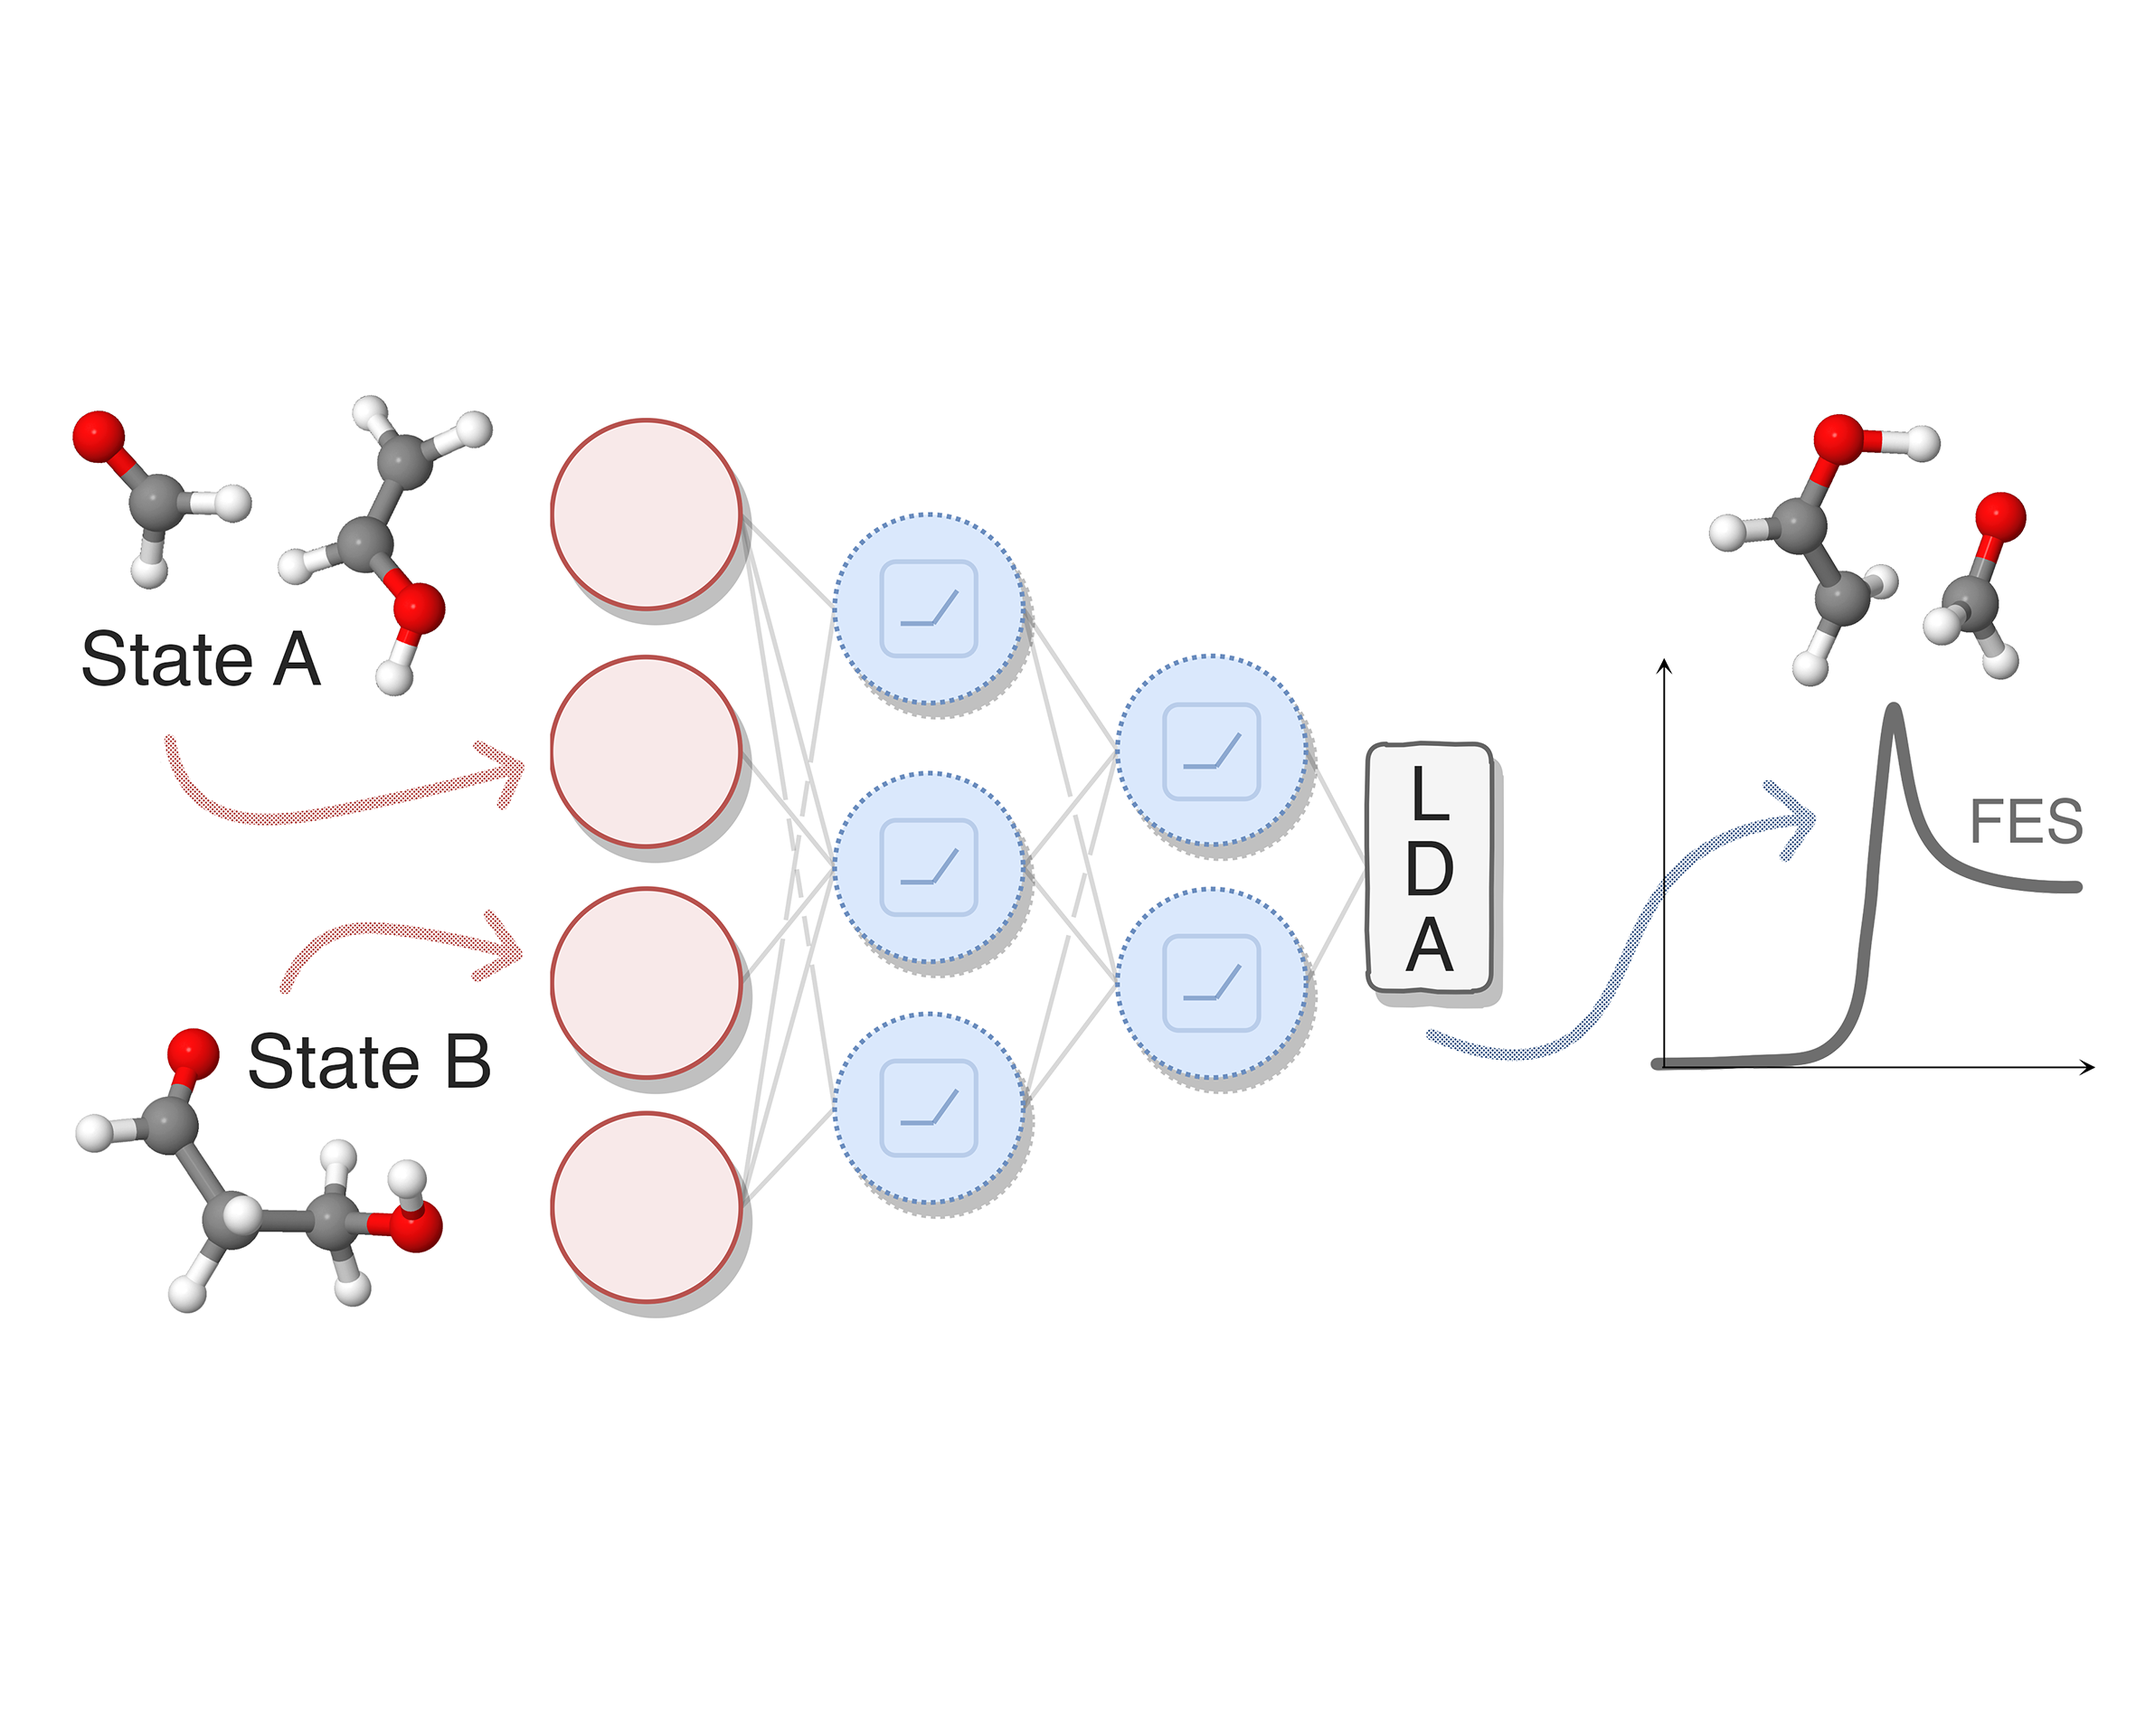
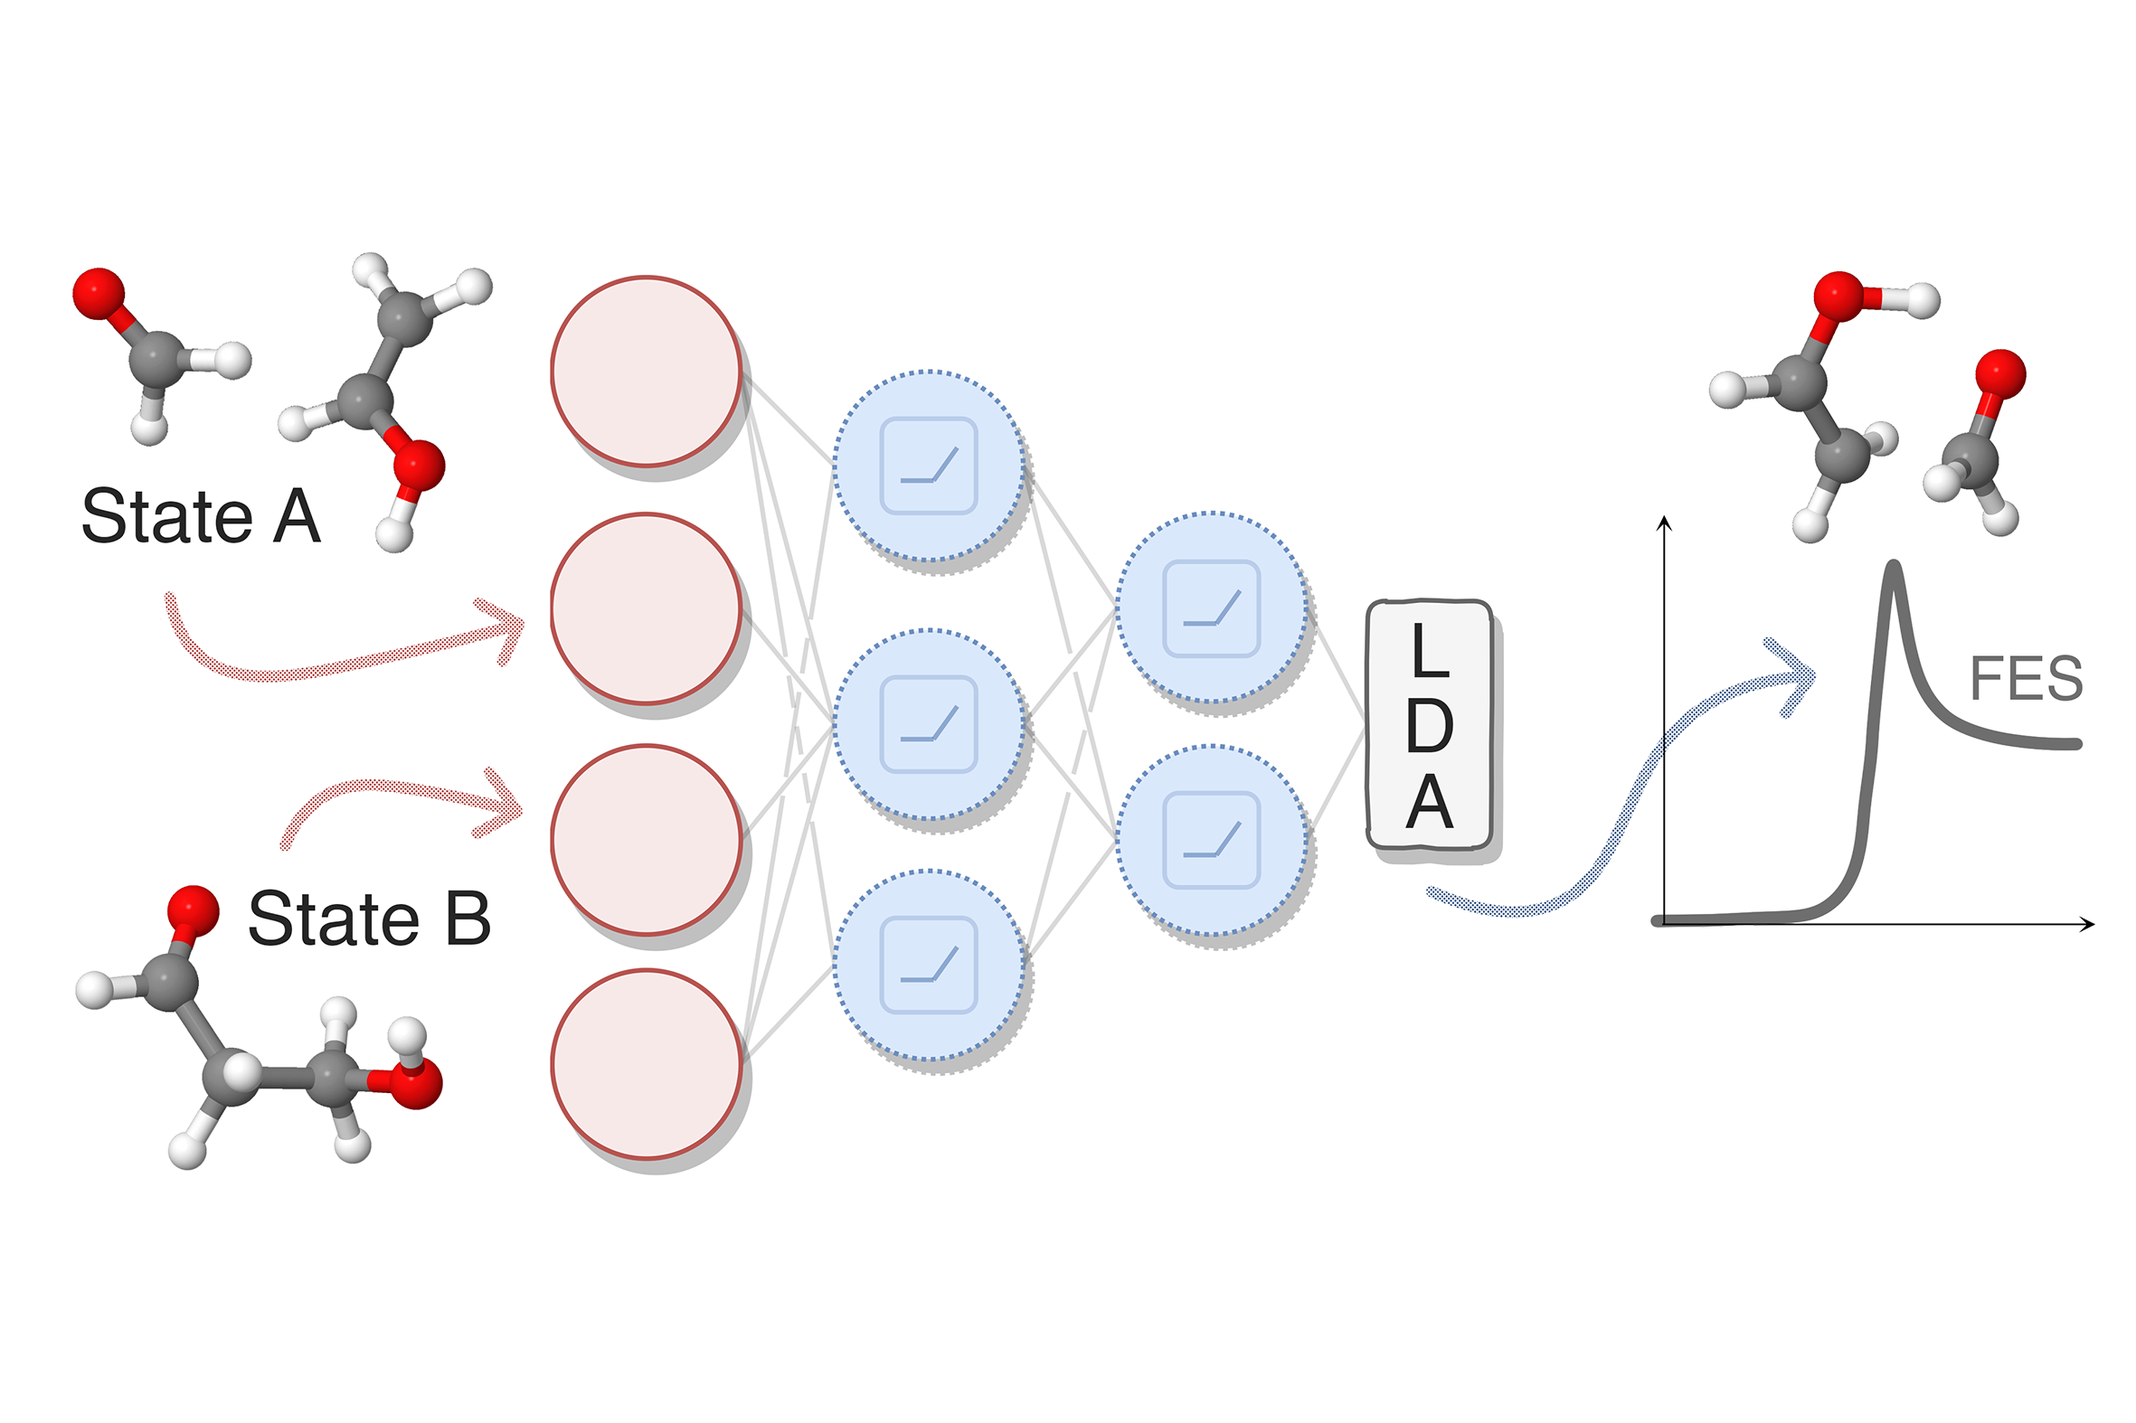
updated pic

diff --git a/_projects/code_deal.md b/_projects/code_deal.md
@@ -2,7 +2,7 @@
 layout: page
 title: deal
 description: Data-efficient active learning for machine learning interatomic potential
-img: assets/img/projects/deal-2.png
+img: assets/img/projects_preview/deal.png
 importance: 2
 category: code
 related_publications: true
@@ -16,4 +16,12 @@ related_publications: true
 
 DEAL selects non-redundant structures from atomistic trajectories via Sparse Gaussian Processes (SGP), to be used to train machine-learning interatomic potentials.
 
+**Highlights**
 
+* Select structures based on SGP predictive variance. 
+* Analyze selected structures (e.g. along the trajectory or as a function of a CV)
+
+    <img src="examples/formate/imgs/analysis.png" alt="drawing" width="824"/>
+* Interactive visualization using [chemiscope](https://chemiscope.org/)
+
+    <a href="https://chemiscope.org/?load=https://raw.githubusercontent.com/luigibonati/DEAL/refs/heads/main/examples/formate/selection/deal_0.1_chemiscope.json.gz"> <img src="examples/formate/imgs/chemiscope-viewer.png" alt="drawing" width="412"></a>

diff --git a/_projects/cat.md b/_projects/cat.md
@@ -2,7 +2,7 @@
 layout: page
 title: The role of dynamics in catalysis
 description: Combining ML and enhanced sampling to unveil the role of dynamics
-img: assets/img/projects/FeN2.png
+img: assets/img/project_preview/FeN2.png
 importance: 3
 category: projects
 related_publications: true

diff --git a/_projects/code_mlcolvar.md b/_projects/code_mlcolvar.md
@@ -2,7 +2,7 @@
 layout: page
 title: mlcolvar
 description: Machine learning collective variables for enhanced sampling
-img: assets/img/projects_preview/mlcolvar.png
+img: assets/img/project_preview/mlcolvar.png
 importance: 1
 category: code
 related_publications: true
